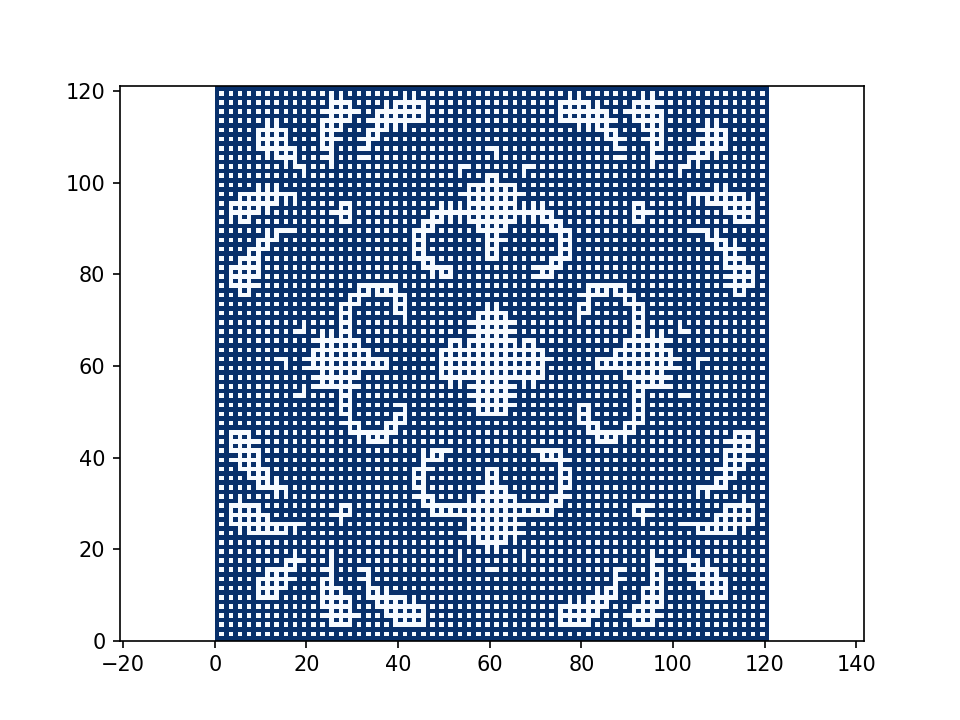
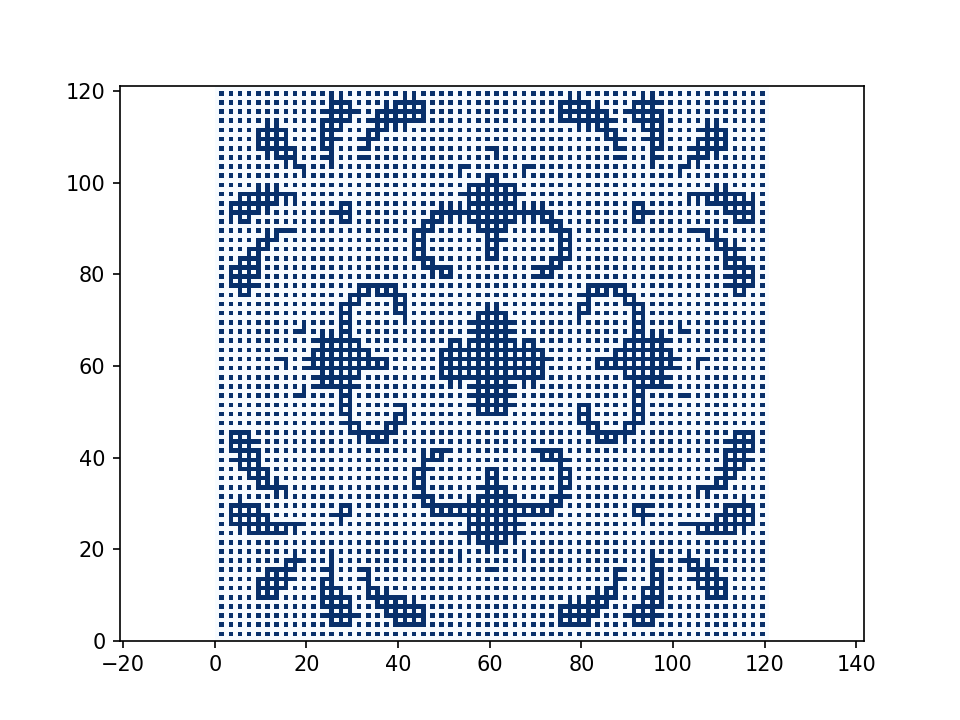
Update

diff --git a/pattern_azulejos/test_1/gen.py b/pattern_azulejos/test_1/gen.py
@@ -47,6 +47,6 @@ def gen_pattern(pic_n: int, negative: bool, pattern_size: int):
 
 
 if __name__ == "__main__":
-    pic_n = 18
-    negative = True
+    pic_n = 14
+    negative = False
     gen_pattern(pic_n=pic_n, negative=negative, pattern_size=121)
